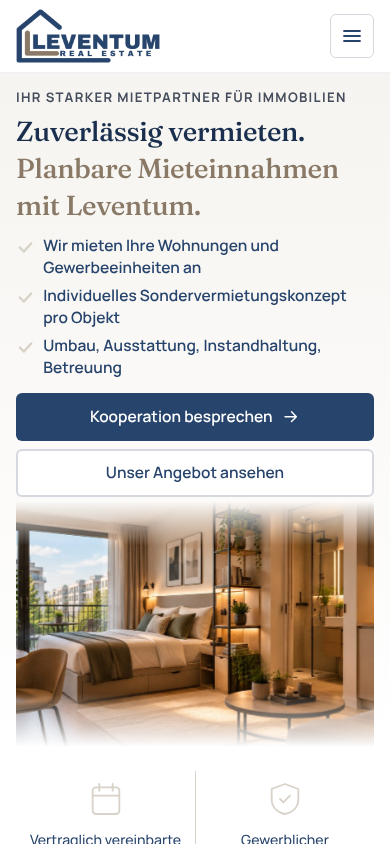
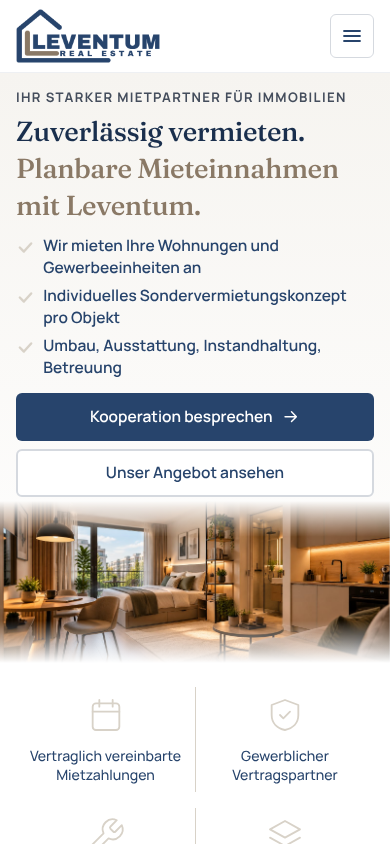
Hero-Bild bis 1100 px vollständig und randlos statt seitlich beschnitten
Claude-Session: https://claude.ai/code/session_01KEcscF8ABiEHPf9rzLQ9PG

Changed region(s): [[0.0, 0.5853, 1.0, 1.0]]

diff --git a/css/sections.css b/css/sections.css
@@ -427,3 +427,10 @@
 .hero h1 { font-size: min(var(--fs-h1), 7.9cqw); }
 .rot-item, .hero h1 .ln > span { white-space: nowrap; }
 @media (max-width: 760px) { .hero h1 { font-size: min(1.72rem, 7.9cqw); } }
+
+/* Hero-Bild bis 1100 px: vollständig (kein Zuschnitt), randlos über die ganze Breite */
+@media (max-width: 1100px) {
+  .hero-visual { margin-inline: -16px; }
+  .hero-figure { aspect-ratio: 1600 / 667; -webkit-mask-image: linear-gradient(to bottom, transparent 0, #000 22%, #000 74%, transparent 100%); mask-image: linear-gradient(to bottom, transparent 0, #000 22%, #000 74%, transparent 100%); -webkit-mask-composite: source-over; mask-composite: add; }
+  .hero-figure img { transform: none; object-fit: cover; }
+}

diff --git a/datenschutz.html b/datenschutz.html
@@ -11,7 +11,7 @@
   <link rel="stylesheet" href="css/tokens.css?v=89aeff11">
   <link rel="stylesheet" href="css/base.css?v=f26ed30c">
   <link rel="stylesheet" href="css/components.css?v=ea470df2">
-  <link rel="stylesheet" href="css/sections.css?v=72eb6edb">
+  <link rel="stylesheet" href="css/sections.css?v=740d7eea">
 </head>
 <body>
   <header class="site-header"><div class="container header-inner">

diff --git a/impressum.html b/impressum.html
@@ -11,7 +11,7 @@
   <link rel="stylesheet" href="css/tokens.css?v=89aeff11">
   <link rel="stylesheet" href="css/base.css?v=f26ed30c">
   <link rel="stylesheet" href="css/components.css?v=ea470df2">
-  <link rel="stylesheet" href="css/sections.css?v=72eb6edb">
+  <link rel="stylesheet" href="css/sections.css?v=740d7eea">
 </head>
 <body>
   <header class="site-header"><div class="container header-inner">

diff --git a/index.html b/index.html
@@ -29,7 +29,7 @@
   <link rel="stylesheet" href="css/tokens.css?v=89aeff11">
   <link rel="stylesheet" href="css/base.css?v=f26ed30c">
   <link rel="stylesheet" href="css/components.css?v=ea470df2">
-  <link rel="stylesheet" href="css/sections.css?v=72eb6edb">
+  <link rel="stylesheet" href="css/sections.css?v=740d7eea">
   <script>document.documentElement.classList.add('js');</script>
 </head>
 <body>
